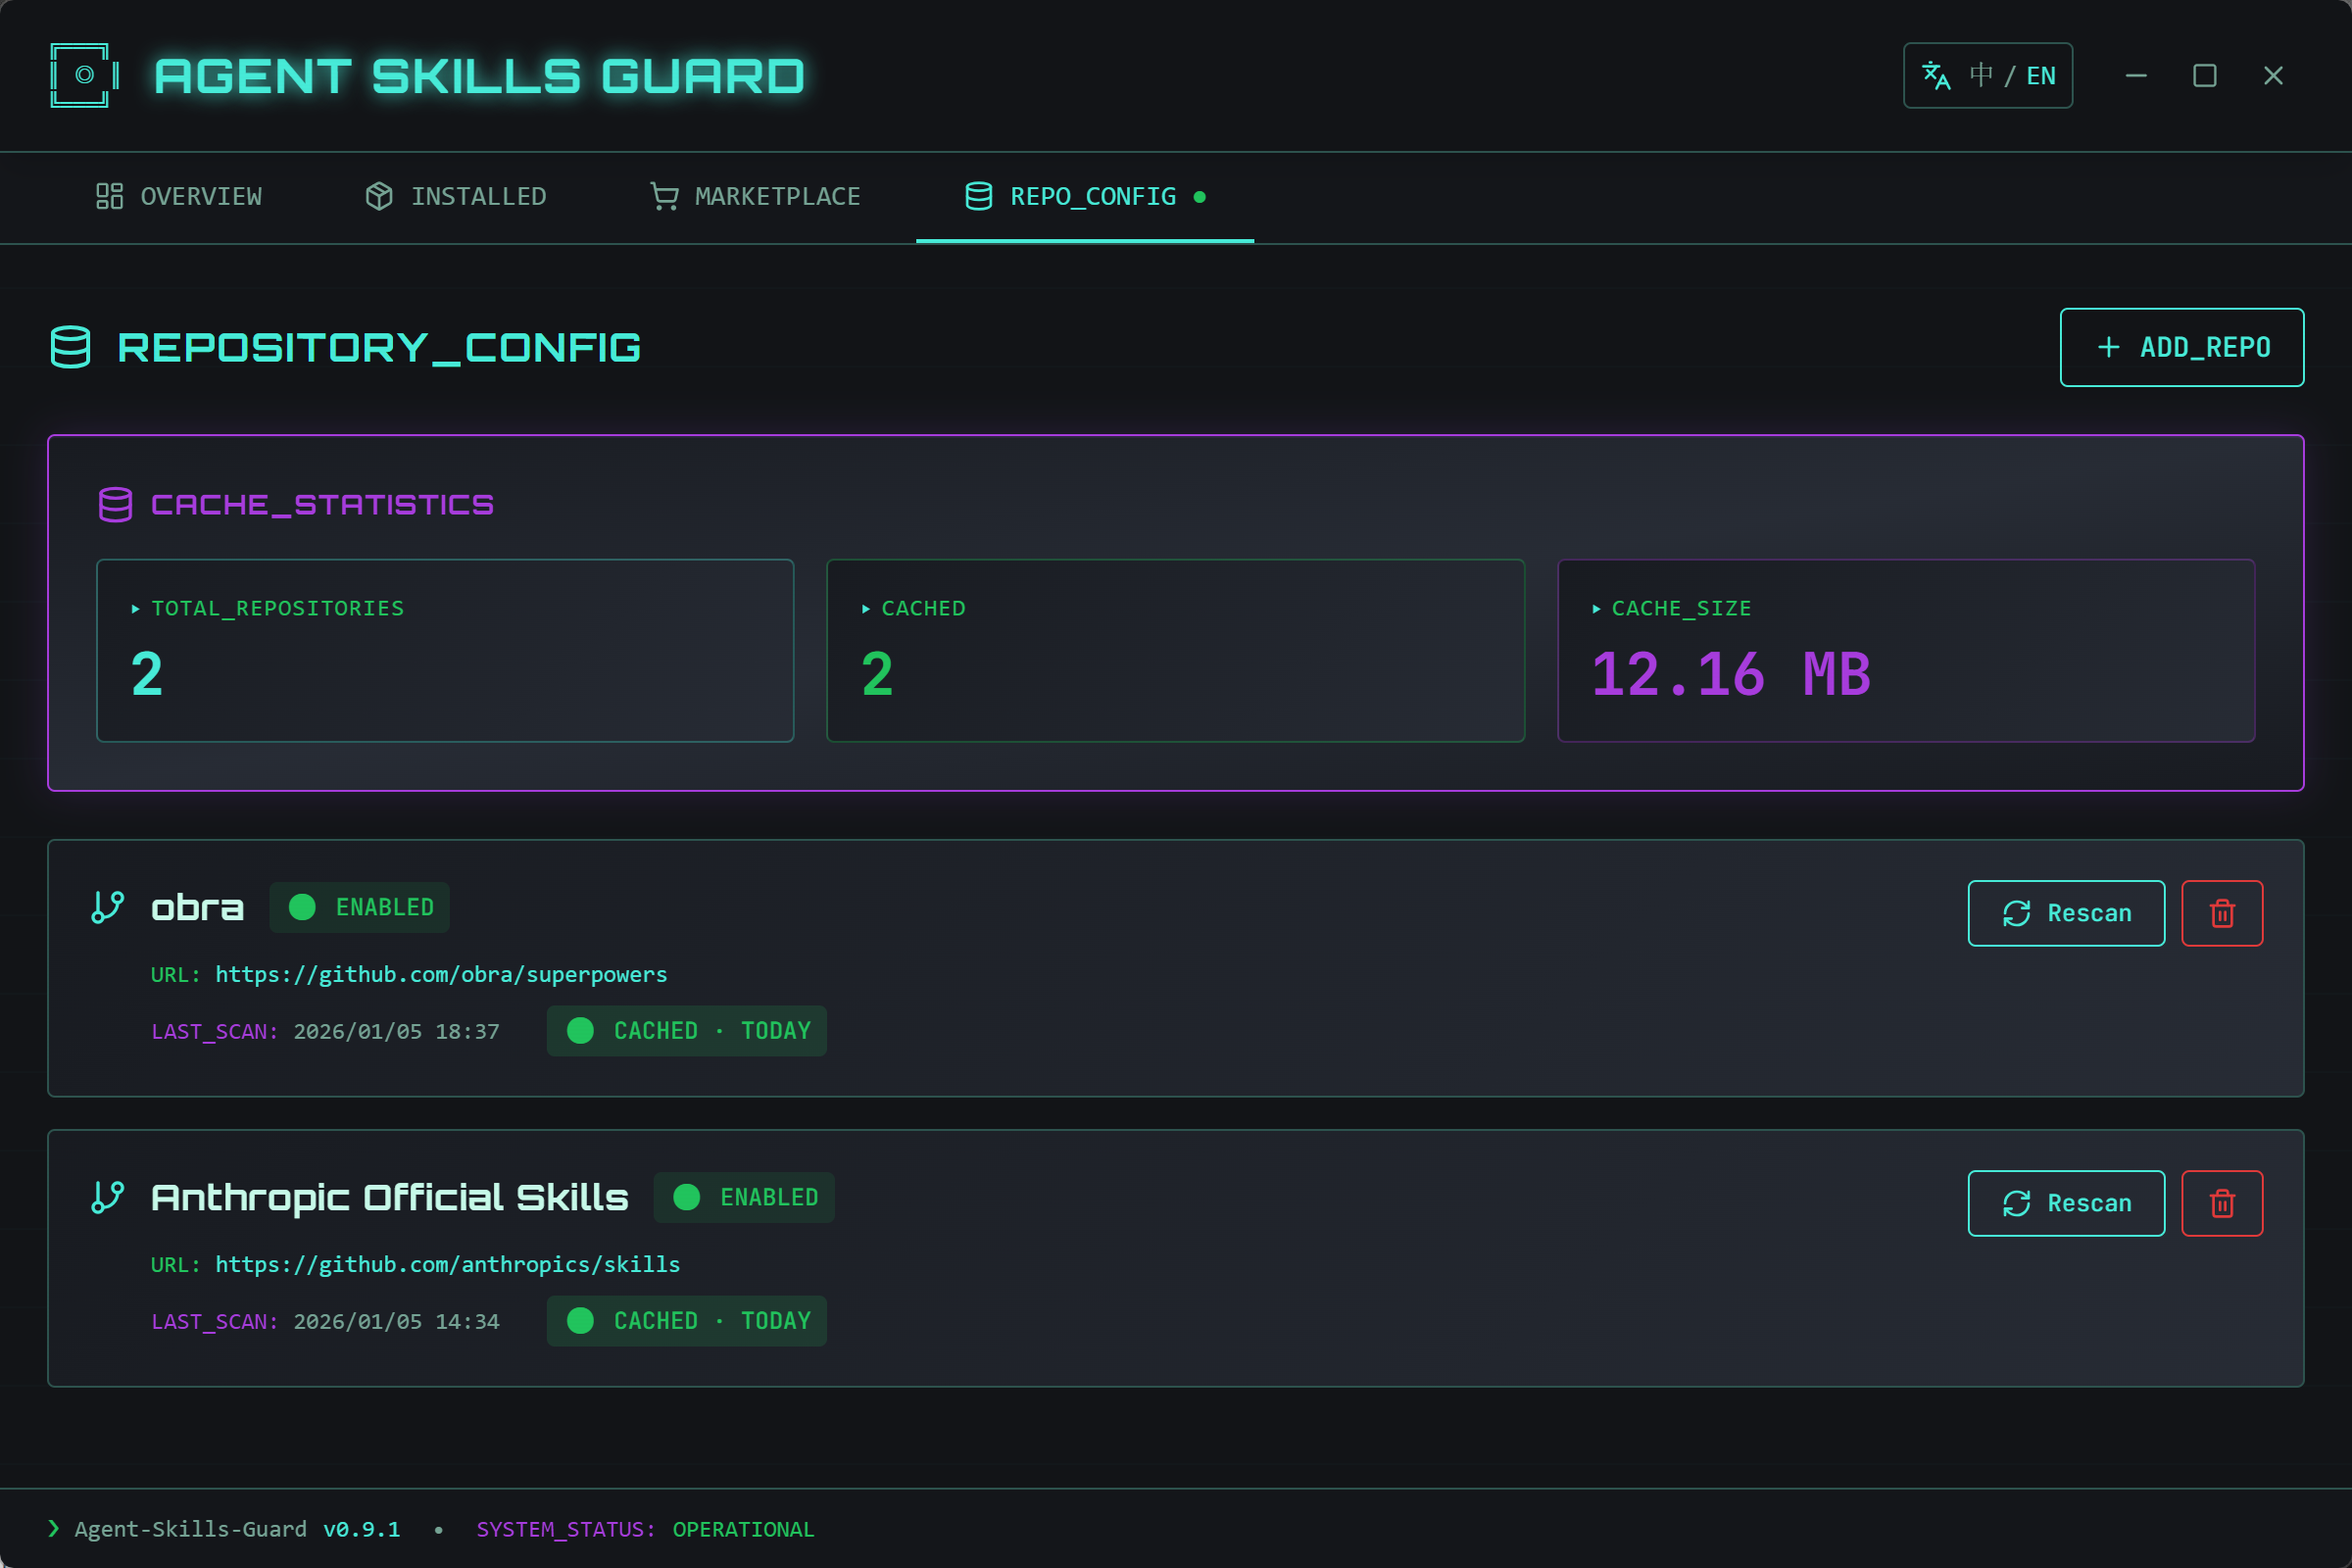
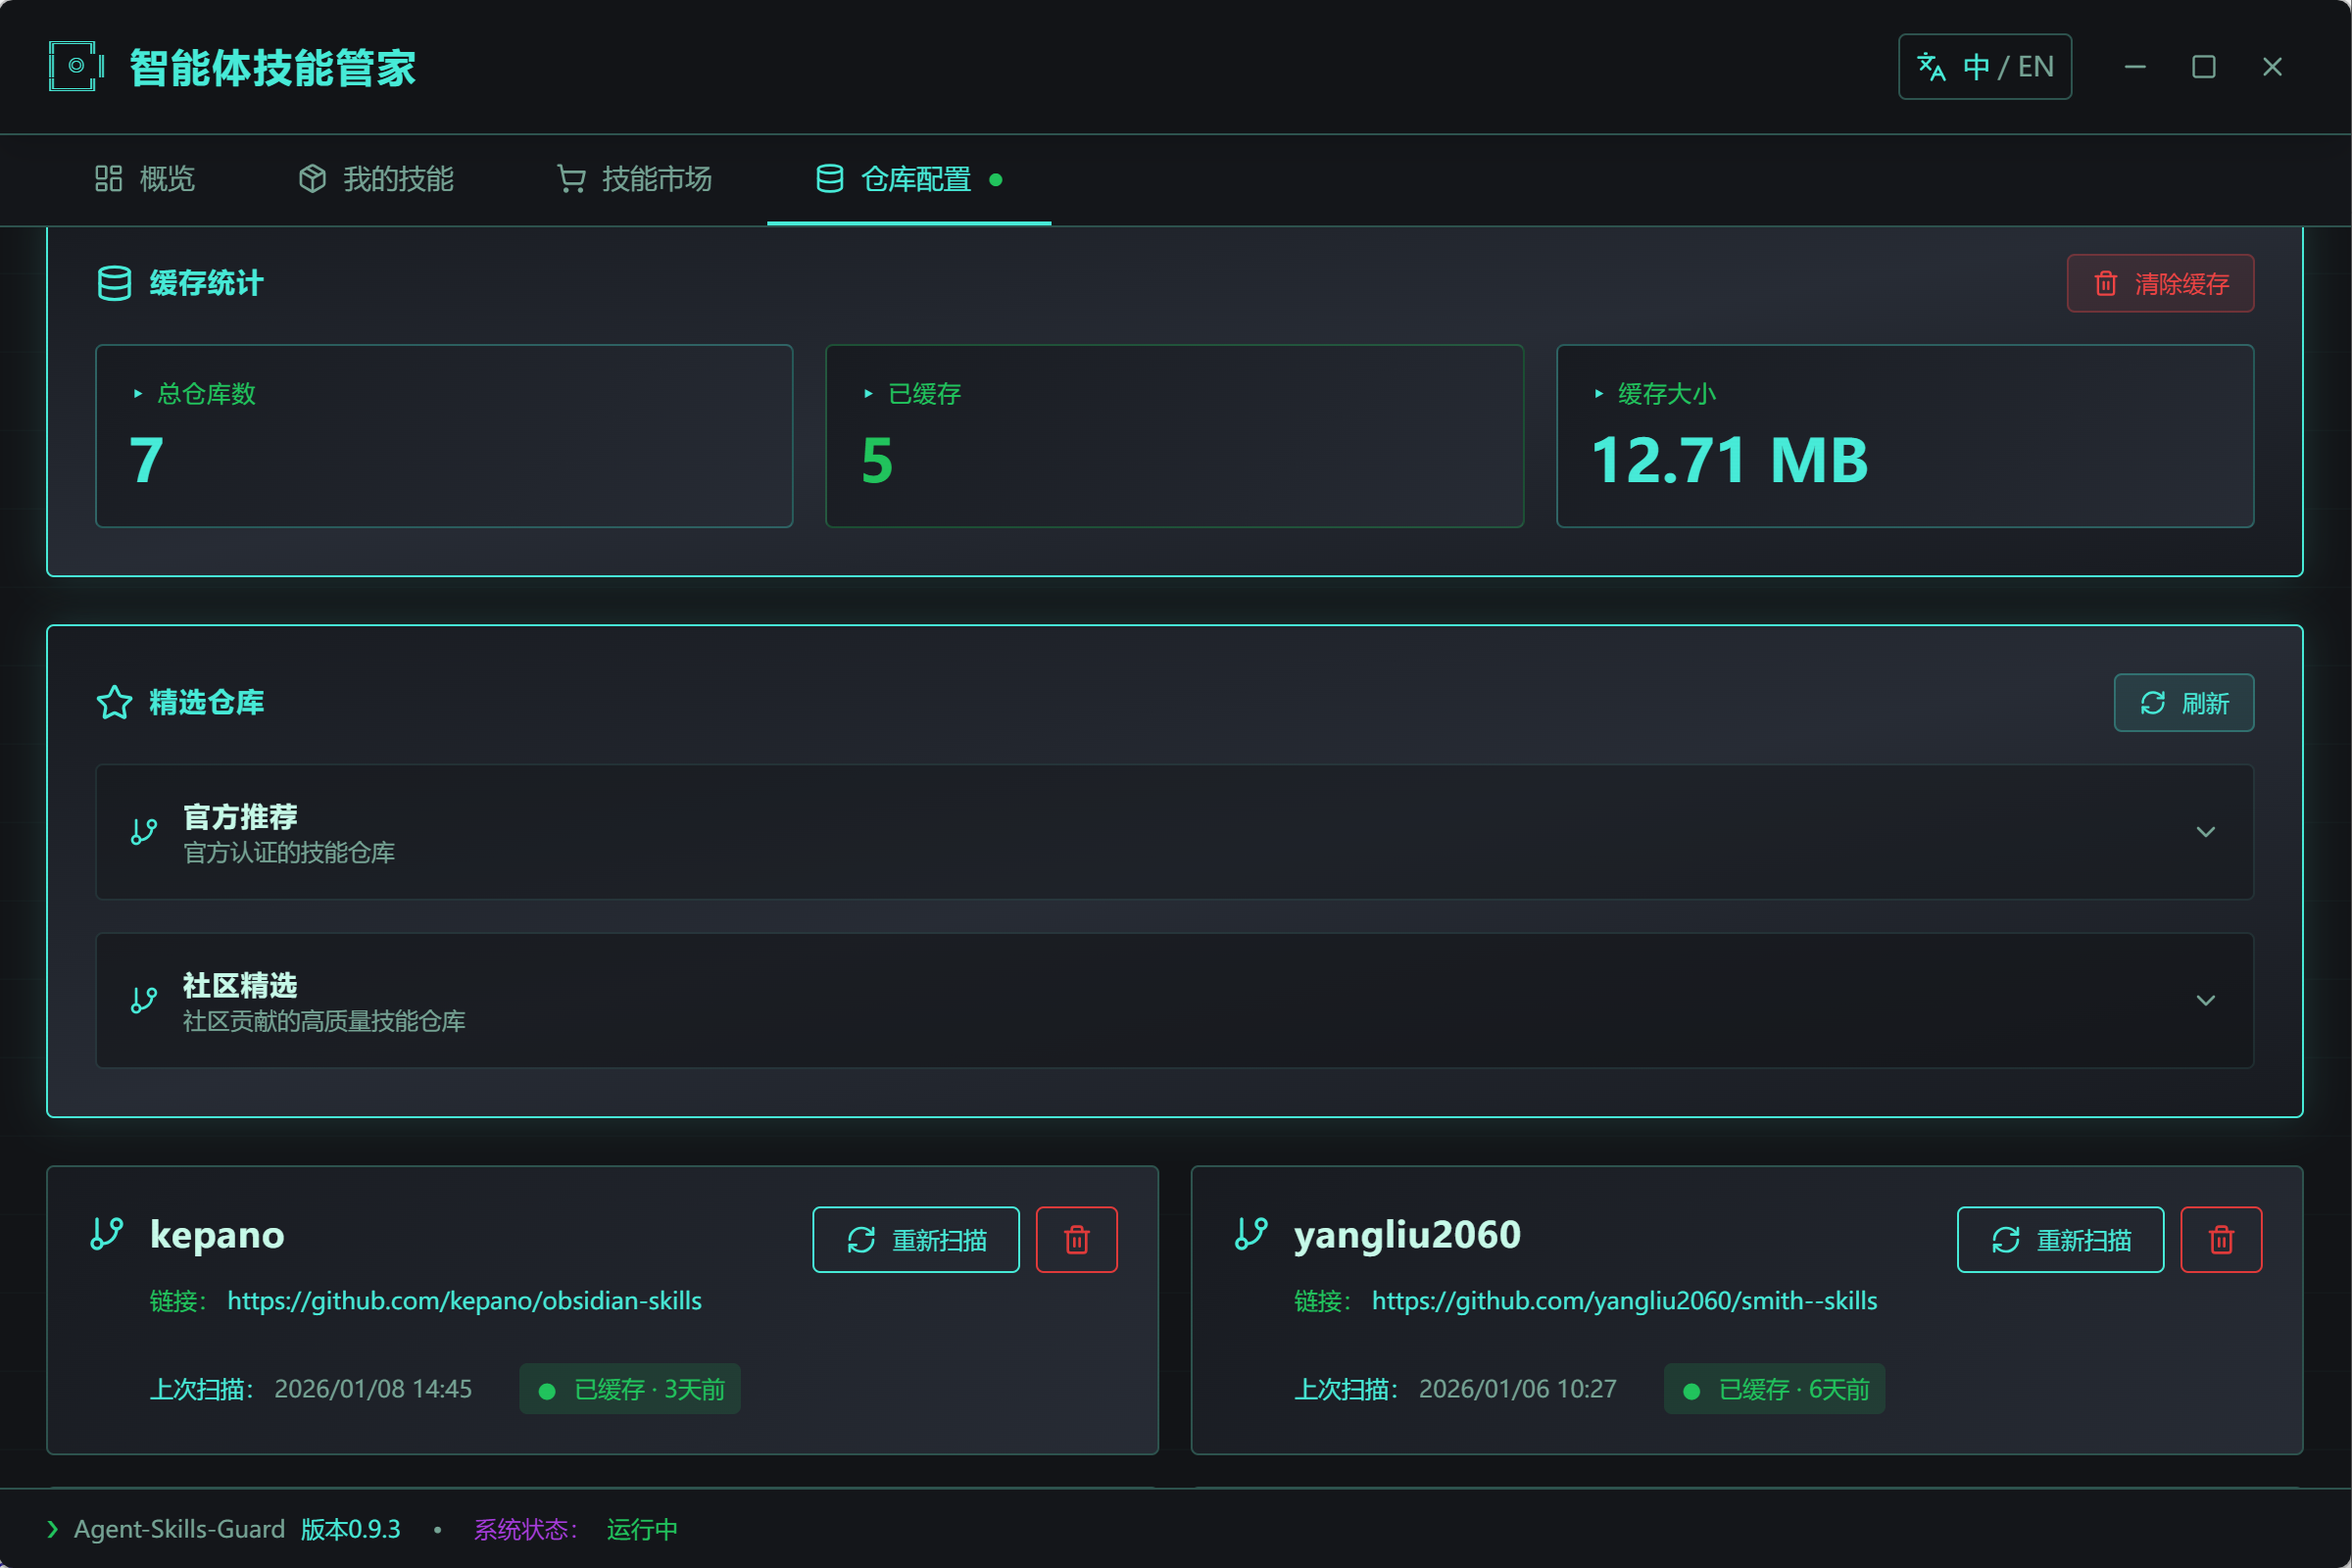
docs: Update README with v0.9.3 features and refresh screenshots
- Add version badges and improved header
- Document new auto-update functionality
- Highlight enhanced security scanning (symlink detection, directory limits)
- Showcase recommended repositories system
- Update installation instructions with dual methods
- Add comprehensive v0.9.2 and v0.9.3 changelog
- Enhance technical stack documentation
- Refresh all screenshots to reflect current UI
- Add new featured repositories screenshot
- Improve contribution and contact sections

diff --git a/README.md b/README.md
@@ -1,5 +1,13 @@
 # Agent Skills Guard
 
+<div align="center">
+
+![Version](https://img.shields.io/badge/version-0.9.3-blue.svg)
+![License](https://img.shields.io/badge/license-MIT-green.svg)
+![Platform](https://img.shields.io/badge/platform-macOS%20%7C%20Windows-lightgrey.svg)
+
+</div>
+
 ## 让你的 Claude Code 技能探索之旅 安全又安心
 
 **一个懂你的 Claude Code 技能管家**
@@ -34,22 +42,33 @@
   ![我的技能](screen-shot/myskills.png)
 - **技能市场**：从 GitHub 仓库探索和安装社区技能
   ![技能市场](screen-shot/skillsmarket.png)
-- **仓库配置**：添加和管理技能来源
+- **仓库配置**：添加和管理技能来源(内置精选社区技能，不断更新)
   ![仓库配置](screen-shot/repositories.png)
+  ![仓库配置](screen-shot/featuredrepositories.png)
 
 ### 🛡 智能安全扫描
 
 在安装前帮你把关，在使用时给你提醒：
 
 - **60+条安全规则**：覆盖破坏性操作、远程代码执行、命令注入等风险
+- **符号链接检测**：自动识别潜在的符号链接风险
+- **目录扫描限制**：防止扫描陷入过深的目录结构
 - **直观的安全评分**：0-100分，一眼看穿技能安全性
 - **详细的扫描报告**：告诉你哪里有风险、为什么有风险、如何修复
 
 ![扫描结果](screen-shot/scanresult.png)
 
-### 🌐 中英双语界面
+### 🔄 自动更新
 
-中文界面，让使用更亲切
+- **应用自动更新**：集成 GitHub Actions，自动检测并安装新版本
+- **无缝升级体验**：后台下载，一键更新
+
+### 🎨 现代化界面
+
+- **Cyberpunk 风格设计**：赛博朋克主题，科技感十足
+- **响应式布局**：完美适配各种屏幕尺寸
+- **流畅动画**：精心打磨的交互体验
+- **中英双语界面**：支持中文和英文切换
 
 ---
 
@@ -57,36 +76,46 @@
 
 ### 安装
 
-GitHub release 界面下载安装包，支持Mac/Windows 或自行编译：
+#### 方式一：下载安装包（推荐）
+
+访问 [GitHub Releases](https://github.com/brucevanfdm/agent-skills-guard/releases) 下载最新版本：
+
+- **macOS**：下载 `.dmg` 或 `.app.tar.gz` 文件
+- **Windows**：下载 `.msi` 或 `.exe` 安装包
+
+#### 方式二：自行编译
 
 ```bash
 # 1. 克隆项目
 git clone https://github.com/brucevanfdm/agent-skills-guard.git
 cd agent-skills-guard
 
-# 2. 安装依赖
+# 2. 安装依赖（需要 pnpm）
 pnpm install
 
-# 3. 启动应用
+# 3. 开发模式运行
 pnpm dev
-```
 
-就这么简单！应用会自动打开。
+# 或者构建生产版本
+pnpm build
+```
 
 ### 使用流程
 
 **第一次使用？**
 
-1. 点击「仓库配置」添加你喜欢的技能仓库
-2. 等待自动扫描完成
+1. 查看「推荐仓库」或点击「仓库配置」添加你喜欢的技能仓库
+2. 等待自动扫描完成（支持刷新和缓存管理）
 3. 在「技能市场」浏览和安装技能
-4. 安装前会自动进行安全检查
+4. 安装时可选择自定义路径或使用默认路径
+5. 安装前会自动进行安全检查
 
 **已有技能？**
 
 1. 点击「概览」页面的「一键扫描」
-2. 查看所有技能的安全评分
+2. 查看所有技能的安全评分和状态
 3. 根据报告决定哪些技能需要卸载
+4. 一键打开技能文件夹进行管理
 
 ---
 
@@ -118,14 +147,39 @@ pnpm dev
 
 ---
 
+## 📝 更新日志
+
+### v0.9.3 (最新版本)
+
+#### 🔒 安全性改进
+
+- 重新生成带密码保护的签名密钥
+- 优化 CI/CD 工作流，修复 pnpm 版本冲突
+
+### v0.9.2
+
+#### ✨ 核心功能
+
+- 🎉 **新增自动更新功能**：集成 GitHub Actions 自动更新机制
+- 📚 **推荐仓库系统**：内置精选仓库配置，支持刷新和缓存管理
+- 🎨 **界面全面升级**：强化 Cyberpunk 风格，优化字体和布局
+- 📦 **多路径安装支持**：支持自定义安装路径和最近路径选择
+- 🔍 **安全扫描增强**：新增符号链接检测和目录扫描限制
+- ⚡ **性能优化**：添加缓存机制，提升响应速度
+
+[查看完整更新日志](https://github.com/brucevanfdm/agent-skills-guard/releases)
+
+---
+
 ## 🗺 后续规划
 
+- [X] **程序自动更新**：应用本身支持在线升级 ✅
+- [X] **精选技能仓库**：内置官方精选的优质技能 ✅
+- [X] **多路径安装**：支持自定义技能安装路径 ✅
 - [ ] **技能在线更新**：GitHub 有更新时自动提醒
-- [ ] **程序自动更新**：应用本身支持在线升级
-- [ ] **精选技能仓库**：内置官方精选的优质技能
 - [ ] **同名技能管理**：智能处理同名技能的兼容性
 - [ ] **增强安全扫描**：更多维度的安全检测
-- [ ] **界面优化**：更美观的交互体验
+- [ ] **技能依赖管理**：自动处理技能之间的依赖关系
 
 ---
 
@@ -133,17 +187,20 @@ pnpm dev
 
 ### 前端
 
-- React 18.3 + TypeScript
-- Tailwind CSS（酷炫的 Cyber 主题）
-- Radix UI（无障碍组件）
-- Framer Motion（流畅动画）
-- i18next（国际化）
+- **React 18.3** + **TypeScript** - 现代化前端框架
+- **Tailwind CSS** - 酷炫的 Cyberpunk 主题定制
+- **Radix UI** - 无障碍组件库
+- **Framer Motion** - 流畅的交互动画
+- **TanStack Query** - 强大的数据状态管理
+- **i18next** - 完整的国际化支持
+- **React Hook Form** + **Zod** - 类型安全的表单验证
 
 ### 后端
 
-- Tauri 2.8（Rust 跨平台桌面应用）
-- SQLite（本地数据库）
-- 基于规则的安全扫描引擎
+- **Tauri 2.9** - Rust 驱动的跨平台桌面应用框架
+- **SQLite** - 轻量级本地数据库
+- **基于规则的安全扫描引擎** - 60+ 条安全规则
+- **GitHub Actions** - 自动化构建和更新发布
 
 ---
 
@@ -165,9 +222,28 @@ MIT License - 自由使用，自由分享
 
 ---
 
+## 🤝 贡献
+
+欢迎提交 Issue 和 Pull Request！
+
+如果你喜欢这个项目，请给个 ⭐ Star 支持一下！
+
+---
+
 ## 📧 反馈与建议
 
 有问题或建议？欢迎通过以下方式联系：
 
-- [GitHub Issues](https://github.com/brucevanfdm/agent-skills-guard/issues)
-- [X/Twitter](https://x.com/brucevanfdm)
+- 💬 [GitHub Issues](https://github.com/brucevanfdm/agent-skills-guard/issues) - 报告问题或提出功能建议
+- 🐦 [X/Twitter](https://x.com/brucevanfdm) - 关注项目动态
+- 📦 [GitHub Releases](https://github.com/brucevanfdm/agent-skills-guard/releases) - 下载最新版本
+
+---
+
+<div align="center">
+
+Made with ❤ by [Bruce](https://github.com/brucevanfdm)
+
+[⬆ 回到顶部](#agent-skills-guard)
+
+</div>
